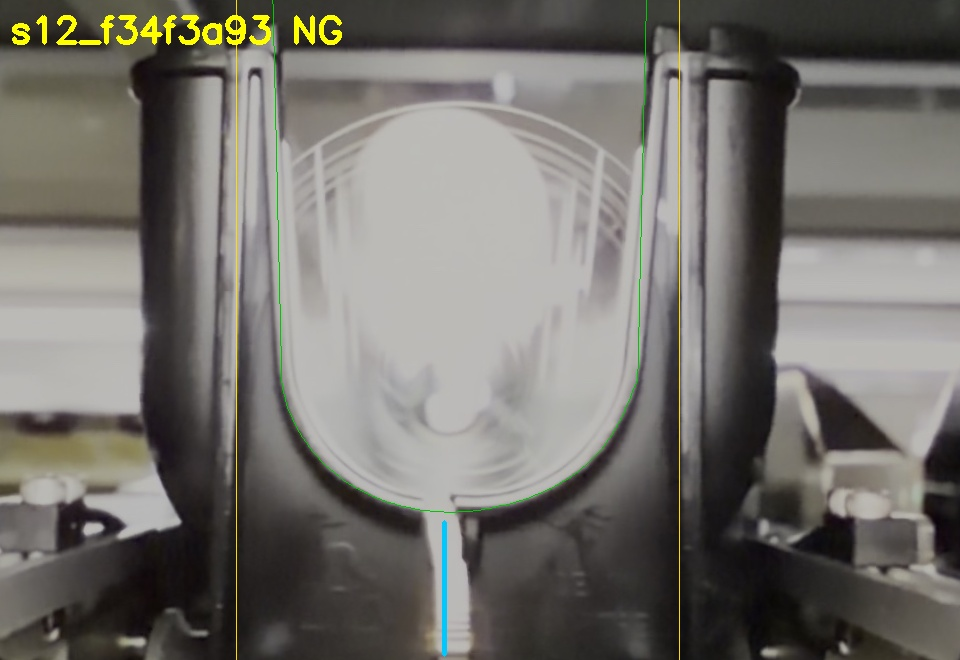
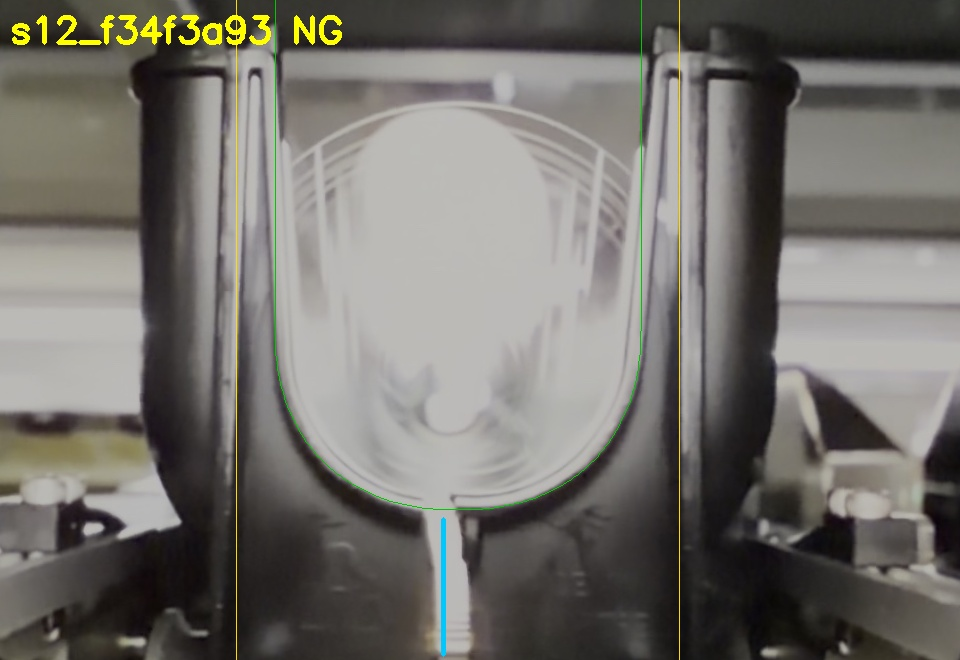
Fit a clean symmetric U model (straight legs + smooth bottom) to the detected rim
Claude-Session: https://claude.ai/code/session_01AGHVZAzegJVfdU4wL5nFmJ

diff --git a/gist/crack_v14_bundle.py b/gist/crack_v14_bundle.py
@@ -768,6 +768,9 @@ ANGLES = np.deg2rad(np.arange(0, 182, 2))     # 真右 -> 真下 -> 真左（画
 R_STEP = 2.0
 OUT = 50          # 外側を何 px 先までなめらかか調べるか
 W_OUT = 0.8       # 外側の模様の多さの減点の重み
+W_NEAR = 1.0      # U字の当てはめで、大まかに見つけた線から離れることの減点の重み
+W_IN = 0.0        # U字の当てはめで、線の内側が外側より明るいことの重み
+SIZE_BONUS = 0.0   # U字の当てはめで、1px 大きいほど得する点数
 R_BONUS = 0.0     # 1px 外側ほど得する点数
 
 
@@ -939,6 +942,89 @@ def regularize(rim, cx, cy, deg=6, iters=3):
     return np.vstack(out)
 
 
+def u_model(cx, w, cy, ry, sq, n_arc=120, leg_step=6.0):
+    """綺麗なU字の線（左右対称）。左の脚の上 -> 底 -> 右の脚の上 の順の点の並び。
+
+      cx : 左右の中心   w : 脚の間の半分の幅   cy : 脚が終わって底のカーブが始まる高さ
+      ry : カーブの深さ   sq : カーブの角ばり具合（2 = 楕円、大きいほど底が平らで角ばる）
+    """
+    a = np.linspace(np.pi, 0, n_arc)
+    co, si = np.cos(a), np.sin(a)
+    e = 2.0 / sq
+    arc = np.c_[cx + w * np.sign(co) * np.abs(co) ** e, cy + ry * np.abs(si) ** e]
+    ys = np.arange(0, cy, leg_step)
+    left = np.c_[np.full(len(ys), cx - w), ys]
+    right = np.c_[np.full(len(ys), cx + w), ys[::-1]]
+    return np.vstack([left, arc, right])
+
+
+def fit_u_model(frame, rough):
+    """大まかに見つけた線 rough を手がかりに、綺麗なU字の形（u_model）をぴったり当てはめる。
+
+    点数 = 線の上で「内側が明るく外側が暗い」強さ − 外側の模様の多さ − 大まかな線からの離れ具合
+    から少しずつ形を動かして、点数が一番高い形にする。出来上がる線は必ず綺麗なU字になる。
+    """
+    rough = np.asarray(rough, np.float64)
+    img = cv2.GaussianBlur(frame.astype(np.float32), (0, 0), 1.5)
+    g = cv2.GaussianBlur(frame.astype(np.float32), (0, 0), 1.0)
+    edge = cv2.magnitude(cv2.Sobel(g, cv2.CV_32F, 1, 0), cv2.Sobel(g, cv2.CV_32F, 0, 1))
+    edge = np.clip(edge / (np.percentile(edge, 99) + 1e-6) * 60, 0, 60).astype(np.float32)
+    H, W = frame.shape
+
+    def val(M, q):
+        x = np.clip(q[:, 0], 0, W - 1).astype(np.float32).reshape(1, -1)
+        y = np.clip(q[:, 1], 0, H - 1).astype(np.float32).reshape(1, -1)
+        return cv2.remap(M, x, y, cv2.INTER_LINEAR).ravel()
+
+    def score(p):
+        c = u_model(*p, n_arc=80, leg_step=8.0)
+        c = c[c[:, 1] > 0.15 * H]                                  # 一番上（画像のふち付近）は使わない
+        t = np.gradient(c, axis=0)
+        t /= np.linalg.norm(t, axis=1, keepdims=True) + 1e-9
+        n = np.stack([t[:, 1], -t[:, 0]], 1)                       # 左 -> 底 -> 右 の向きなら、これが内側
+        step = np.clip(val(img, c + 3 * n) - val(img, c - 3 * n), 0, 60).mean()
+        out = np.mean([val(edge, c - d * n).mean() for d in (8, 16, 24, 32)])
+        # 線の少し内側（10〜40px）は縁取り・開口部なので、外側の樹脂より明るいはず。
+        # 外側の縦リブに合ってしまったときは、内側が暗い樹脂になるので点数が下がる
+        inner = np.mean([val(img, c + d * n) for d in (10, 20, 30, 40)], axis=0)
+        outer = np.mean([val(img, c - d * n) for d in (8, 16, 24, 32)], axis=0)
+        contrast = np.clip(inner - outer, -40, 40).mean()
+        d = np.min(np.hypot(c[:, None, 0] - rough[None, ::3, 0], c[:, None, 1] - rough[None, ::3, 1]), axis=1)
+        # 同じくらい合うなら、大きい（外側の）U字を選ぶ。内側のネジ筒などに吸い付かないように
+        return (step - W_OUT * out + W_IN * contrast - W_NEAR * np.minimum(d, 30).mean()
+                + SIZE_BONUS * (p[1] + p[3]))
+
+    # 初期値: 大まかな線から測る
+    cx = (rough[:, 0].min() + rough[:, 0].max()) / 2
+    w = (rough[:, 0].max() - rough[:, 0].min()) / 2
+    bottom = rough[:, 1].max()
+    # 大まかな線が内側の物に引っ張られていることがあるので、大きさ・深さを変えた初期値をいくつか試す
+    best = None
+    for kw in (0.95, 1.0, 1.05):
+        for kr in (0.6, 0.8, 1.0):
+            for dcx in (0,):
+                q = np.array([cx + dcx, w * kw, bottom - kr * w * kw, kr * w * kw, 2.5])
+                if q[2] < 5:
+                    continue
+                sc = score(q)
+                if best is None or sc > best[0]:
+                    best = (sc, q)
+    cur, p = best
+    for st in (8.0, 3.0, 1.0):
+        improved = True
+        while improved:
+            improved = False
+            for i, d in ((0, st), (1, st), (2, st), (3, st), (4, st * 0.08)):
+                for sgn in (1, -1):
+                    q = p.copy(); q[i] += sgn * d
+                    if q[4] < 1.6 or q[4] > 6 or q[3] < 10 or q[1] < 20:
+                        continue
+                    sc = score(q)
+                    if sc > cur + 1e-6:
+                        p, cur, improved = q, sc, True
+    return p
+
+
 def snap_rim(ref, rim, search=10, step=4.0, smooth_penalty=2.0):
     """縁取りの線を、近くの本当の境目（外側の暗い樹脂 -> 内側の明るい縁取り）に細かく吸い付け、
     縁取りの太さも測る。戻り値: (点の並び, 縁取りの太さ[px])"""
@@ -991,9 +1077,10 @@ def detect_geometry(frame, edge_margin=10, min_thick=30):
     """1枚の画像（基準座標 960x660）から検査範囲を作る。戻り値: (検査範囲, はっきり度)"""
     W, H = SIZE
     rim0, (cx, cy), total = find_rim(frame)
-    rim0 = regularize(rim0, cx, cy)                            # 綺麗なU字に直す
-    rim, width = snap_rim(frame, rim0.tolist(), search=5, smooth_penalty=4.0)
-    rim = regularize(np.array(rim), cx, cy).tolist()          # 吸い付けたあとも、もう一度U字にそろえる
+    up = fit_u_model(frame, regularize(rim0, cx, cy))          # 綺麗なU字の形を当てはめる
+    rim = u_model(*up)
+    _, width = snap_rim(frame, rim.tolist(), search=3, smooth_penalty=4.0)   # 縁取りの太さだけ測る
+    rim = rim.tolist()
     rim = np.array(rim)
     bottom = rim[np.argmax(rim[:, 1])]
     top_y = float(rim[:, 1].min())

diff --git a/crack_v14/u_detect.py b/crack_v14/u_detect.py
@@ -23,6 +23,9 @@ ANGLES = np.deg2rad(np.arange(0, 182, 2))     # 真右 -> 真下 -> 真左（画
 R_STEP = 2.0
 OUT = 50          # 外側を何 px 先までなめらかか調べるか
 W_OUT = 0.8       # 外側の模様の多さの減点の重み
+W_NEAR = 1.0      # U字の当てはめで、大まかに見つけた線から離れることの減点の重み
+W_IN = 0.0        # U字の当てはめで、線の内側が外側より明るいことの重み
+SIZE_BONUS = 0.0   # U字の当てはめで、1px 大きいほど得する点数
 R_BONUS = 0.0     # 1px 外側ほど得する点数
 
 
@@ -194,6 +197,89 @@ def regularize(rim, cx, cy, deg=6, iters=3):
     return np.vstack(out)
 
 
+def u_model(cx, w, cy, ry, sq, n_arc=120, leg_step=6.0):
+    """綺麗なU字の線（左右対称）。左の脚の上 -> 底 -> 右の脚の上 の順の点の並び。
+
+      cx : 左右の中心   w : 脚の間の半分の幅   cy : 脚が終わって底のカーブが始まる高さ
+      ry : カーブの深さ   sq : カーブの角ばり具合（2 = 楕円、大きいほど底が平らで角ばる）
+    """
+    a = np.linspace(np.pi, 0, n_arc)
+    co, si = np.cos(a), np.sin(a)
+    e = 2.0 / sq
+    arc = np.c_[cx + w * np.sign(co) * np.abs(co) ** e, cy + ry * np.abs(si) ** e]
+    ys = np.arange(0, cy, leg_step)
+    left = np.c_[np.full(len(ys), cx - w), ys]
+    right = np.c_[np.full(len(ys), cx + w), ys[::-1]]
+    return np.vstack([left, arc, right])
+
+
+def fit_u_model(frame, rough):
+    """大まかに見つけた線 rough を手がかりに、綺麗なU字の形（u_model）をぴったり当てはめる。
+
+    点数 = 線の上で「内側が明るく外側が暗い」強さ − 外側の模様の多さ − 大まかな線からの離れ具合
+    から少しずつ形を動かして、点数が一番高い形にする。出来上がる線は必ず綺麗なU字になる。
+    """
+    rough = np.asarray(rough, np.float64)
+    img = cv2.GaussianBlur(frame.astype(np.float32), (0, 0), 1.5)
+    g = cv2.GaussianBlur(frame.astype(np.float32), (0, 0), 1.0)
+    edge = cv2.magnitude(cv2.Sobel(g, cv2.CV_32F, 1, 0), cv2.Sobel(g, cv2.CV_32F, 0, 1))
+    edge = np.clip(edge / (np.percentile(edge, 99) + 1e-6) * 60, 0, 60).astype(np.float32)
+    H, W = frame.shape
+
+    def val(M, q):
+        x = np.clip(q[:, 0], 0, W - 1).astype(np.float32).reshape(1, -1)
+        y = np.clip(q[:, 1], 0, H - 1).astype(np.float32).reshape(1, -1)
+        return cv2.remap(M, x, y, cv2.INTER_LINEAR).ravel()
+
+    def score(p):
+        c = u_model(*p, n_arc=80, leg_step=8.0)
+        c = c[c[:, 1] > 0.15 * H]                                  # 一番上（画像のふち付近）は使わない
+        t = np.gradient(c, axis=0)
+        t /= np.linalg.norm(t, axis=1, keepdims=True) + 1e-9
+        n = np.stack([t[:, 1], -t[:, 0]], 1)                       # 左 -> 底 -> 右 の向きなら、これが内側
+        step = np.clip(val(img, c + 3 * n) - val(img, c - 3 * n), 0, 60).mean()
+        out = np.mean([val(edge, c - d * n).mean() for d in (8, 16, 24, 32)])
+        # 線の少し内側（10〜40px）は縁取り・開口部なので、外側の樹脂より明るいはず。
+        # 外側の縦リブに合ってしまったときは、内側が暗い樹脂になるので点数が下がる
+        inner = np.mean([val(img, c + d * n) for d in (10, 20, 30, 40)], axis=0)
+        outer = np.mean([val(img, c - d * n) for d in (8, 16, 24, 32)], axis=0)
+        contrast = np.clip(inner - outer, -40, 40).mean()
+        d = np.min(np.hypot(c[:, None, 0] - rough[None, ::3, 0], c[:, None, 1] - rough[None, ::3, 1]), axis=1)
+        # 同じくらい合うなら、大きい（外側の）U字を選ぶ。内側のネジ筒などに吸い付かないように
+        return (step - W_OUT * out + W_IN * contrast - W_NEAR * np.minimum(d, 30).mean()
+                + SIZE_BONUS * (p[1] + p[3]))
+
+    # 初期値: 大まかな線から測る
+    cx = (rough[:, 0].min() + rough[:, 0].max()) / 2
+    w = (rough[:, 0].max() - rough[:, 0].min()) / 2
+    bottom = rough[:, 1].max()
+    # 大まかな線が内側の物に引っ張られていることがあるので、大きさ・深さを変えた初期値をいくつか試す
+    best = None
+    for kw in (0.95, 1.0, 1.05):
+        for kr in (0.6, 0.8, 1.0):
+            for dcx in (0,):
+                q = np.array([cx + dcx, w * kw, bottom - kr * w * kw, kr * w * kw, 2.5])
+                if q[2] < 5:
+                    continue
+                sc = score(q)
+                if best is None or sc > best[0]:
+                    best = (sc, q)
+    cur, p = best
+    for st in (8.0, 3.0, 1.0):
+        improved = True
+        while improved:
+            improved = False
+            for i, d in ((0, st), (1, st), (2, st), (3, st), (4, st * 0.08)):
+                for sgn in (1, -1):
+                    q = p.copy(); q[i] += sgn * d
+                    if q[4] < 1.6 or q[4] > 6 or q[3] < 10 or q[1] < 20:
+                        continue
+                    sc = score(q)
+                    if sc > cur + 1e-6:
+                        p, cur, improved = q, sc, True
+    return p
+
+
 def snap_rim(ref, rim, search=10, step=4.0, smooth_penalty=2.0):
     """縁取りの線を、近くの本当の境目（外側の暗い樹脂 -> 内側の明るい縁取り）に細かく吸い付け、
     縁取りの太さも測る。戻り値: (点の並び, 縁取りの太さ[px])"""
@@ -246,9 +332,10 @@ def detect_geometry(frame, edge_margin=10, min_thick=30):
     """1枚の画像（基準座標 960x660）から検査範囲を作る。戻り値: (検査範囲, はっきり度)"""
     W, H = SIZE
     rim0, (cx, cy), total = find_rim(frame)
-    rim0 = regularize(rim0, cx, cy)                            # 綺麗なU字に直す
-    rim, width = snap_rim(frame, rim0.tolist(), search=5, smooth_penalty=4.0)
-    rim = regularize(np.array(rim), cx, cy).tolist()          # 吸い付けたあとも、もう一度U字にそろえる
+    up = fit_u_model(frame, regularize(rim0, cx, cy))          # 綺麗なU字の形を当てはめる
+    rim = u_model(*up)
+    _, width = snap_rim(frame, rim.tolist(), search=3, smooth_penalty=4.0)   # 縁取りの太さだけ測る
+    rim = rim.tolist()
     rim = np.array(rim)
     bottom = rim[np.argmax(rim[:, 1])]
     top_y = float(rim[:, 1].min())
